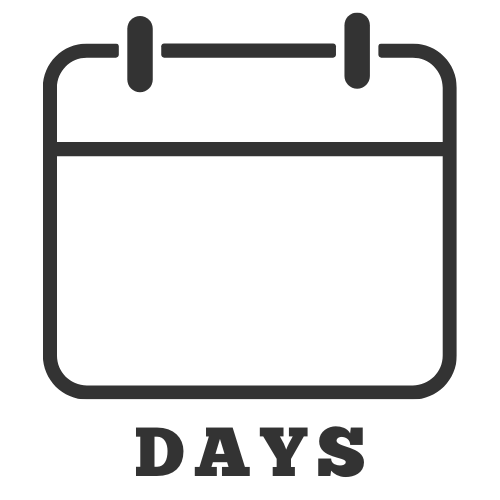
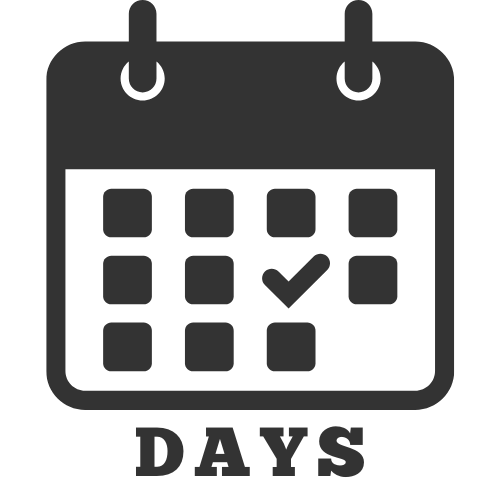
カレンダー画像を差し替え

diff --git a/myapp/models.py b/myapp/models.py
@@ -684,7 +684,7 @@ class StudyLog(db.Model):
             ax.bar(data_labels, data[fieldname], bottom=bottom, label=fieldname, color=color_map.get(fieldname))
             bottom = [b + h for b, h in zip(bottom, data[fieldname])]
 
-        ax.set_title(f'年毎の全期間の学習履歴')
+        ax.set_title(f'年月日別全期間の学習履歴')
         ax.grid(True)
         ax.set_ylabel('学習時間（時間）')
         column_totals = [sum(day) for day in zip(*data.values())]

diff --git a/myapp/views.py b/myapp/views.py
@@ -151,11 +151,6 @@ def index_view(user_id):
         this_month=this_month
         )
 
-# @app.route('/all_time_graph/<user_id>', methods=['GET'])
-# def get_all_time_graph(user_id):
-#     svg = StudyLog.get_all_time_graph_by_field(user_id)
-#     return Response(svg, mimetype='image/svg+xml')
-
 @app.route('/graph/<user_id>', methods=['POST'])
 def get_graph_stats(user_id):
     data = request.get_json(silent=True) or {}
